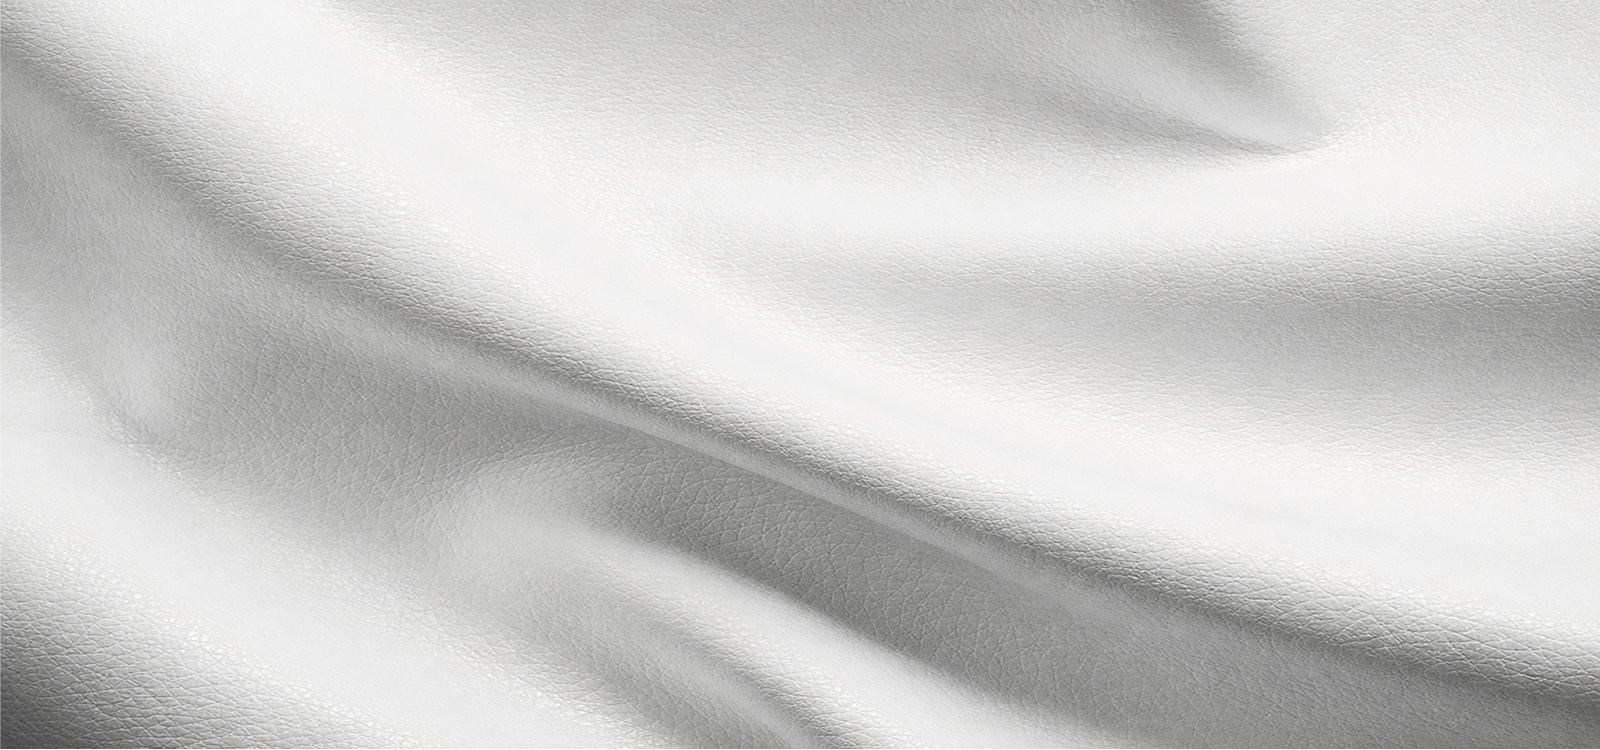
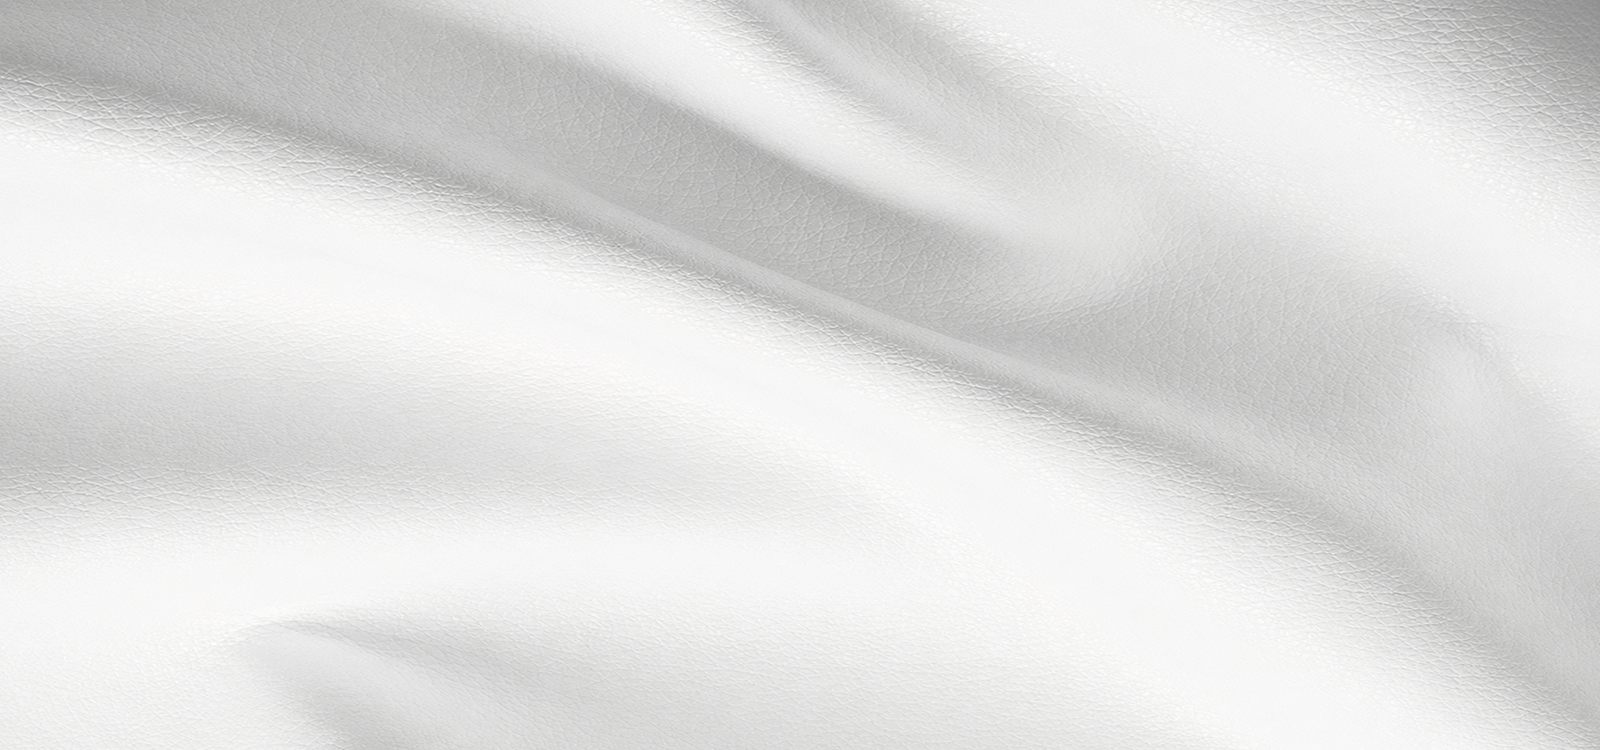
update

diff --git a/src/css/typical-project.model.css b/src/css/typical-project.model.css
@@ -96,10 +96,56 @@
   gap: 2.375rem;
   padding: 4.375rem 0;
   overflow: hidden;
+  background: #fff;
 }
-.project-feature__bg{
+.project-feature::after {
+  content: "";
   position: absolute;
   inset: 0;
+  width: 100%;
+  height: 100%;
+  background: linear-gradient(
+    80deg,
+    #d9d9d9 24.66%,
+    rgba(115, 115, 115, 0) 55.18%
+  );
+  z-index: 1;
+}
+.project-page__one .project-feature::after {
+  height: 46.82363rem;
+}
+.project-page__one .project-feature::before {
+  content: "";
+  position: absolute;
+  inset: 0;
+  bottom: 0;
+  width: 100%;
+  height: 46.82363rem;
+  background: linear-gradient(
+    360deg,
+    rgb(255, 255, 255),
+    rgba(115, 115, 115, 0)
+  );
+  z-index: 1;
+}
+.project-page__two .project-feature::after {
+  background: linear-gradient(
+    180deg,
+    #d9d9d9 24.66%,
+    rgba(115, 115, 115, 0) 55.18%
+  );
+}
+.project-feature__bg {
+  position: absolute;
+  inset: 0;
+  width: 100%;
+  height: 100%;
+  background: url("../assets/images/figma/project/bg-featureProject.png")
+    lightgray center/cover no-repeat;
+}
+.project-page__one .project-feature__bg {
+  opacity: 0.6;
+  height: 46.82363rem;
 }
 .project-feature__production-item {
   display: flex;
@@ -120,7 +166,7 @@
 .project-feature__head {
   order: 0;
   position: relative;
-  z-index: 1;
+  z-index: 10;
   display: flex;
   flex-direction: column;
   gap: 0.75rem;
@@ -132,6 +178,7 @@
 }
 .project-feature__carousel {
   order: 2;
+  z-index: 10;
 }
 .project-feature__eyebrow {
   font-size: 1rem;
@@ -162,6 +209,8 @@
   flex-direction: column;
   gap: 1.25rem;
   width: 100%;
+  position: relative;
+  z-index: 10;
 }
 .project-feature__meta {
   display: grid;
@@ -341,7 +390,6 @@
   grid-template-columns: repeat(2, 1fr);
   gap: 4.0625rem 1.625rem;
   width: 100%;
-  max-width: 91rem;
 }
 .project-card {
   display: flex;
@@ -461,7 +509,7 @@
   background: #252525;
   opacity: 0.6;
 }
-.project-feature__production-item svg  {
+.project-feature__production-item svg {
   display: none;
 }
 /* ========== Mobile ========== */
@@ -494,6 +542,10 @@
   .project-feature__info {
     order: 2;
     gap: 0.625rem;
+  }
+  .project-page__two .project-feature::after,
+  .project-page__one .project-feature::after {
+    display: none;
   }
   .project-feature__eyebrow {
     display: block;

diff --git a/src/page/typicalProject/FeatureProject.tsx b/src/page/typicalProject/FeatureProject.tsx
@@ -1,8 +1,7 @@
 "use client";
 
-import React, { useEffect, useRef, useState } from "react";
 import { motion } from "framer-motion";
-import bg from "@/assets/images/figma/project/bg-featureProject.png";
+import { useEffect, useRef, useState } from "react";
 
 export interface FeaturedProjectData {
   eyebrow: string;
@@ -94,9 +93,30 @@ function FeatureProject({ project, variant = "white" }: Props) {
   const goPrev = () => setActive((a) => a - 1);
   const goNext = () => setActive((a) => a + 1);
 
+  const touchStartX = useRef<number | null>(null);
+  const touchStartY = useRef<number | null>(null);
+  const SWIPE_THRESHOLD = 40;
+
+  const onTouchStart = (e: React.TouchEvent) => {
+    touchStartX.current = e.touches[0].clientX;
+    touchStartY.current = e.touches[0].clientY;
+  };
+
+  const onTouchEnd = (e: React.TouchEvent) => {
+    if (touchStartX.current === null || touchStartY.current === null) return;
+    const dx = e.changedTouches[0].clientX - touchStartX.current;
+    const dy = e.changedTouches[0].clientY - touchStartY.current;
+    if (Math.abs(dx) > Math.abs(dy) && Math.abs(dx) > SWIPE_THRESHOLD) {
+      if (dx < 0) goNext();
+      else goPrev();
+    }
+    touchStartX.current = null;
+    touchStartY.current = null;
+  };
+
   return (
     <section className={`project-feature project-feature--${variant}`}>
-      <img src={bg.src} alt="" className="project-feature__bg" />
+      <div className="project-feature__bg" />
 
       <div className="project-feature__head my-container">
         <span className="project-feature__eyebrow">{project.eyebrow}</span>
@@ -109,6 +129,8 @@ function FeatureProject({ project, variant = "white" }: Props) {
         ref={containerRef}
         role="region"
         aria-roledescription="carousel"
+        onTouchStart={onTouchStart}
+        onTouchEnd={onTouchEnd}
       >
         <motion.div
           className="project-feature__track"

diff --git a/src/page/typicalProject/TypicalProjectPage.tsx b/src/page/typicalProject/TypicalProjectPage.tsx
@@ -89,8 +89,12 @@ function TypicalProjectPage() {
   return (
     <div className="project-page">
       <Hero />
-      <FeatureProject project={featured1} variant="white" />
-      <FeatureProject project={featured2} variant="gray" />
+      <div className="project-page__one">
+        <FeatureProject project={featured1} variant="white" />
+      </div>
+      <div className="project-page__two">
+        <FeatureProject project={featured2} variant="gray" />
+      </div>
       <ProjectList projects={projects} totalPages={10} />
     </div>
   );
